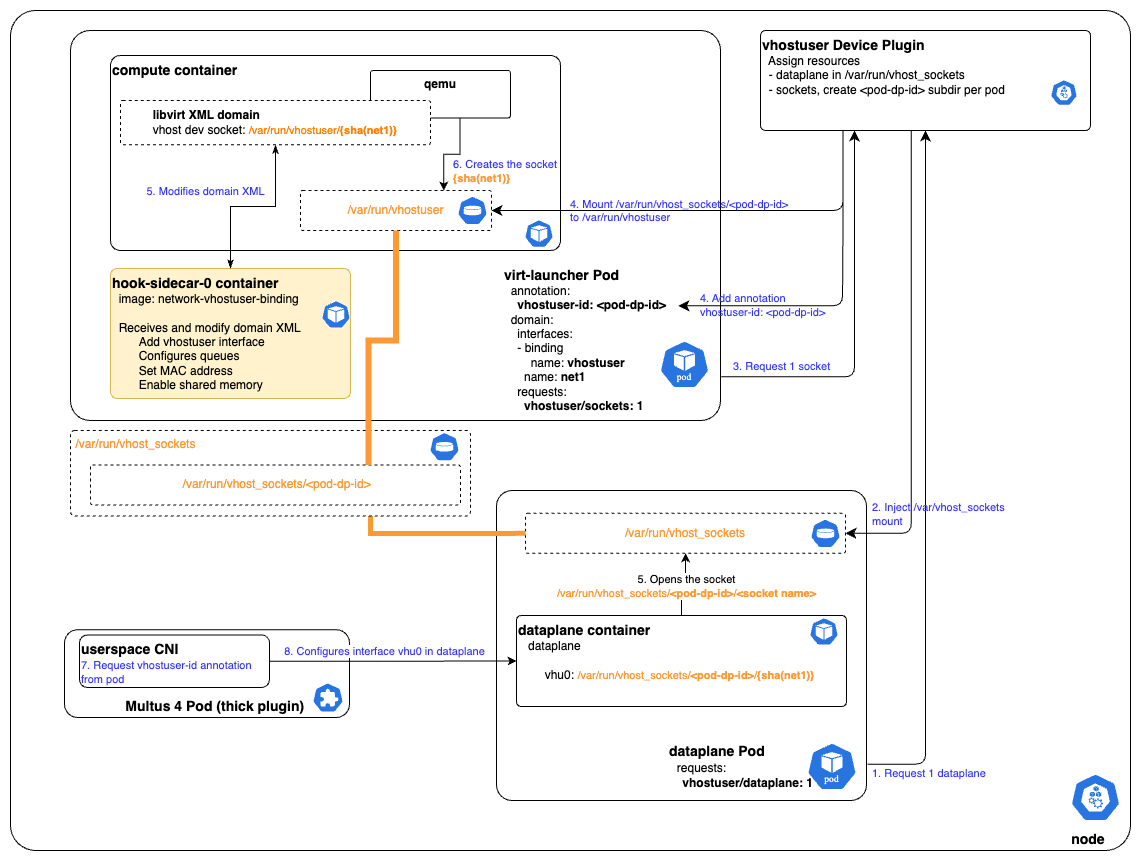
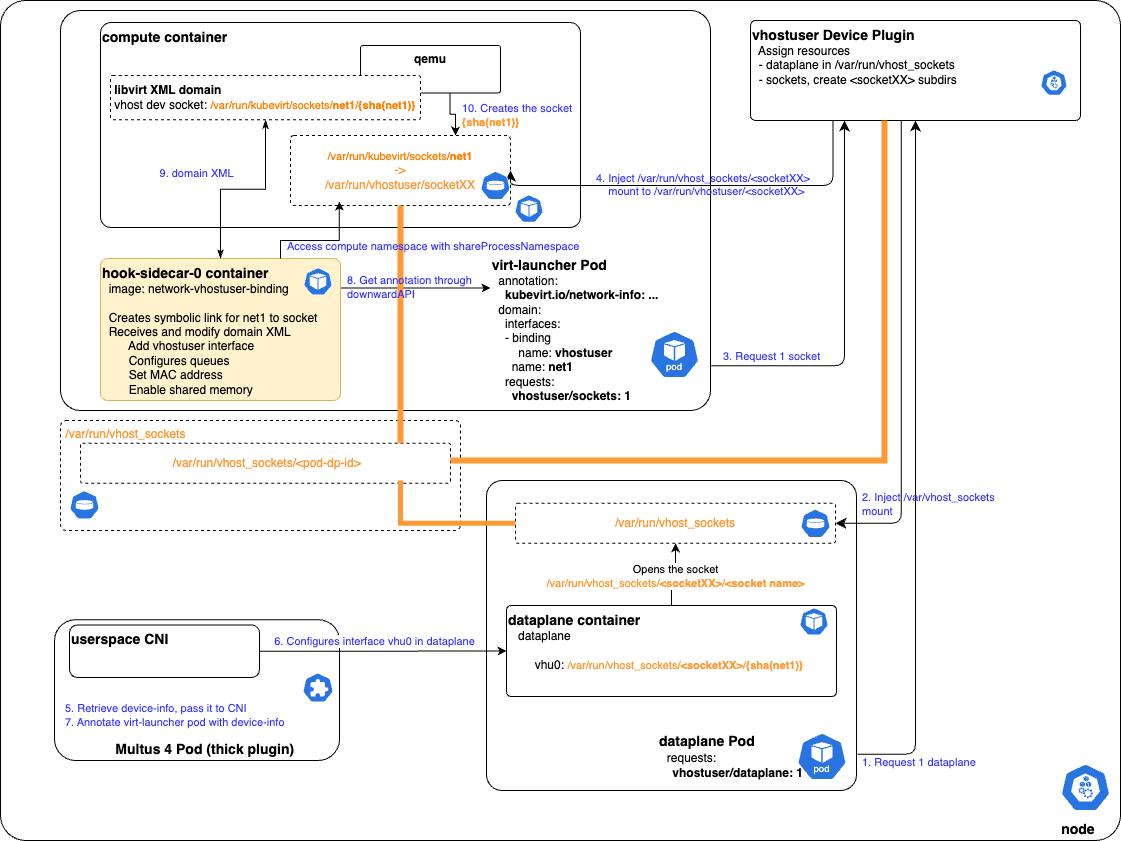
Update design with device plugin implementation and requirement for device-info-spec, downwardAPI and shareProcessNamespace

diff --git a/design-proposals/network-vhostuser-binding-plugin/network-vhostuser-binding-plugin.md b/design-proposals/network-vhostuser-binding-plugin/network-vhostuser-binding-plugin.md
@@ -88,22 +88,46 @@ Below is an example of modified domain XML:
 The socket path have to be available to both `virt-launcher` pod (and `compute` container) and dataplane pod.  
 In order to not use hostPath volumes that requires pod to be privileged, we propose to implement a **vhostuser Device Plugin** that will be able to inject mounts to the sockets directory into unprivileged pods, and annotations.
 
-### Device Plugin for **vhostuser sockets** resource
+#### Device Plugin for **vhostuser sockets** resources
 
-Device plugins have the ability to add mounts into the pods when they request for managed resources.
+Device plugins can instructs kubelet to add mounts into the containers when managed resources are requested.
 
-This design proposal relies on a device plugin that would manage two kinds of resources, representing a host directory where sockets will rely (for example `/var/run/vhost_sockets`):
+This design proposal relies on a device plugin that would manage two kinds of resources on the userspace dataplane that we can think of a virtual switch:
 - **dataplane**: `1`  
-  This only resource is requested by the userspace dataplane, and add a `/var/run/vhost_sockets` mount to the dataplane pod.
+  This resource give access to all sub directories of `/var/run/vhost_sockets`, and to sockets inside.  
+  It is requested by the dataplane itself.  
+  Device plugin injects `/var/run/vhost_sockets` mount in the container.
 - **vhostuser sockets**: `n`  
-  This as many resources as we want to handle and may represent the number of port of the dataplane vSwitch.  
-  It is requested through VM or VMI definition in resources request spec. In turn the `virt-launcher` pod will request the same resources.  
-  This makes the device plugin create a per pod directory like `/var/run/vhost_sockets/<pod-dp-id>`, and mount it into the `virt-launcher` pod as to well known location `/var/run/vhostuser`.  
-  The device plugin has to generate a `pod-dp-id` and push it as an annotation in `virt-launcher` pod. This will be used later by the CNI or any component that configures the vhostuser socket in the dataplane with right path.
+  This resource can be thought as a virtual switch port, and can have a limit related to dataplane own limitation (performance, CPU, etc.).  
+  It can help schedule workloads on node where dataplane has available resources.  
+  It is requested through VM or VMI definition in resources request spec. In turn the `compute` container of the `virt-launcher` pod will request the same resources.  
+  This makes the device plugin allocates a sub directory `/var/run/vhost_sockets/<socketXX>`, and mount it into the `virt-launcher` pod in a well known location `/var/run/vhostuser/<socketXX>`.  
 
-We still have to care about directory and sockets permission and SELinux. 
+The device plugin has to care about directory permissions and SELinux, for the sockets to be accessible from requesting pods.
 
-### Implementation diagram
+The device plugin has to comply with [`device-info-spec`](https://github.com/k8snetworkplumbingwg/device-info-spec/blob/main/SPEC.md#device-information-specification). This allows information sharing between device plugin and the CNI. Thanks to Multus being compliant with this spec, the CNI can retrieve device information (socket path and and type) to be used to configure the dataplane accordingly. Multus will also annotate the `compute` container with this information, KubeVirt extracts only a part into `kubevirt.io/network-info`.
+
+#### Network Binding Plugin and Kubevirt requirements
+
+Network Binding Plugin then can leverage `downwardAPI` feature available from Kubevirt v1.3.0, in order to retrieve the `kubevirt.io/network-info` annotation values, and extract the socket path to configure the interface in the domain XML.
+
+But it can't use it directly as it would break Live Migration of VMs:   
+The socket directories `/var/run/vhostuser/<socketXX>` are not predictable, and new ones get allocated when the destination pod is being created.  
+Unfortunately the domain XML is the one from the source pod (migration domain), and references sockets paths allocated to source pod.
+
+Hence, Network Binding Plugin needs to use immutable paths to sockets. This can be achieved using the interface name (or its hash version) in symbolic links to the real socket path: `/var/run/kubevirt/sockets/net1` -> `/var/run/vhostuser/<socketXX>`.
+
+But the symbolic link needs to be created in the `compute` container mount namespace, for `qemu` to be able to access it.
+
+This requires the `virt-launcher` pod to be created with `shareProcessNamespace` enabled.
+
+Then Network Binding Plugin can target one of the `compute` processes root dir through `/proc/<pid>/root` to create the symbolic link.
+
+Unfortunately not all processes can be targetted. For example it does not work with `virt-launcher` or `virt-launcher-monitor`, but it's working with `virtlogd`.
+
+Enabling `shareProcessNamespace` in KubeVirt is part of this PR: [Refactor containerdisks by accessing the artifacts via proc and pid namespace sharing](https://github.com/kubevirt/kubevirt/pull/11845)
+
+#### Implementation diagram
 
 ![kubevirt-vhostuser-shared-sockets](kubevirt-vhostuser-binding-plugin-device-plugin.png)
 
@@ -179,8 +203,12 @@ Create a VM with several `vhostuser` interfaces then:
 - check the vhostuser sockets are created in the expected directory of virt-launcher pod
 - check the vhostuser sockets are available to the dataplane pod
 - check the VM is running
+- check VM network connectivity
+- live migrate the VM
+- check the VM is migrated and is running
+- check VM network connectivity
 
 # Implementation Phases
 1. First implementation of the `network-vhostuser-binding` done
-2. Implement vhostuser device plugin
+2. Implement vhostuser device plugin done
 3. Upstream `network-vhostuser-binding`
